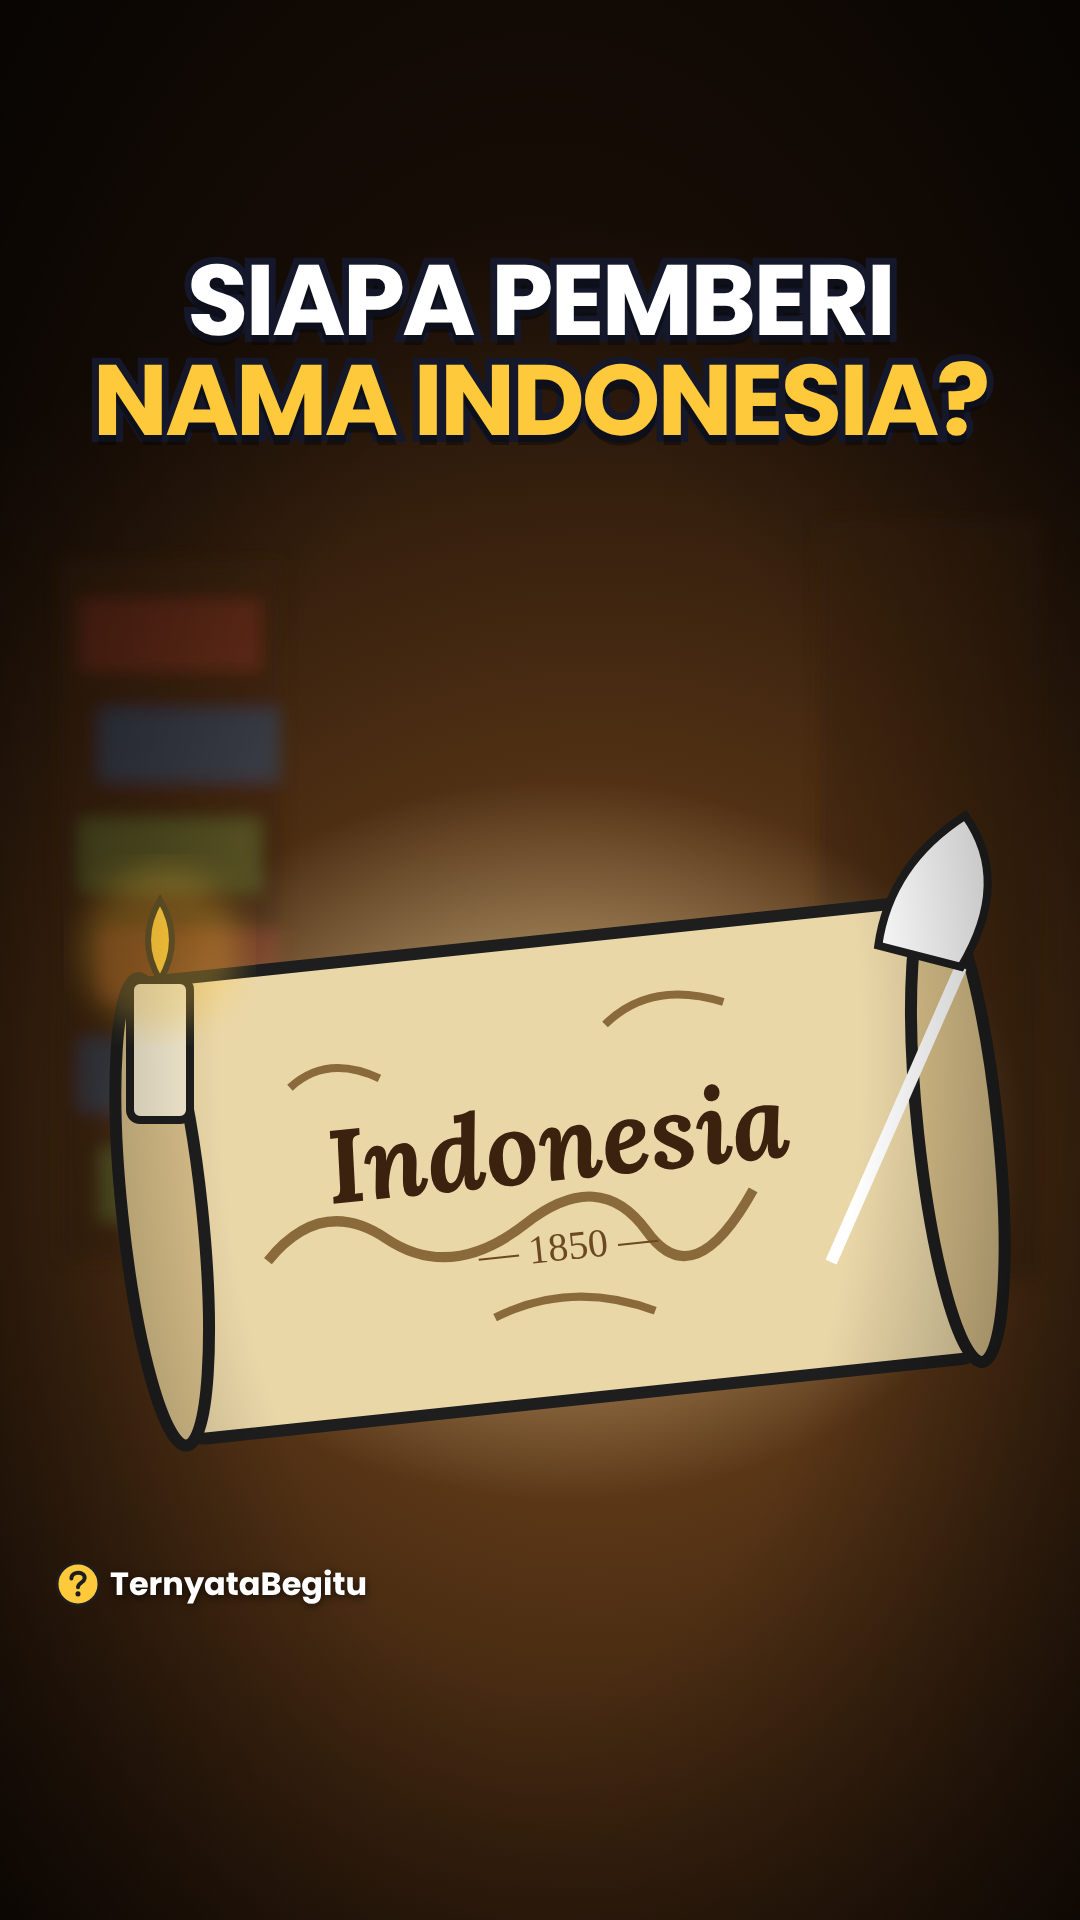
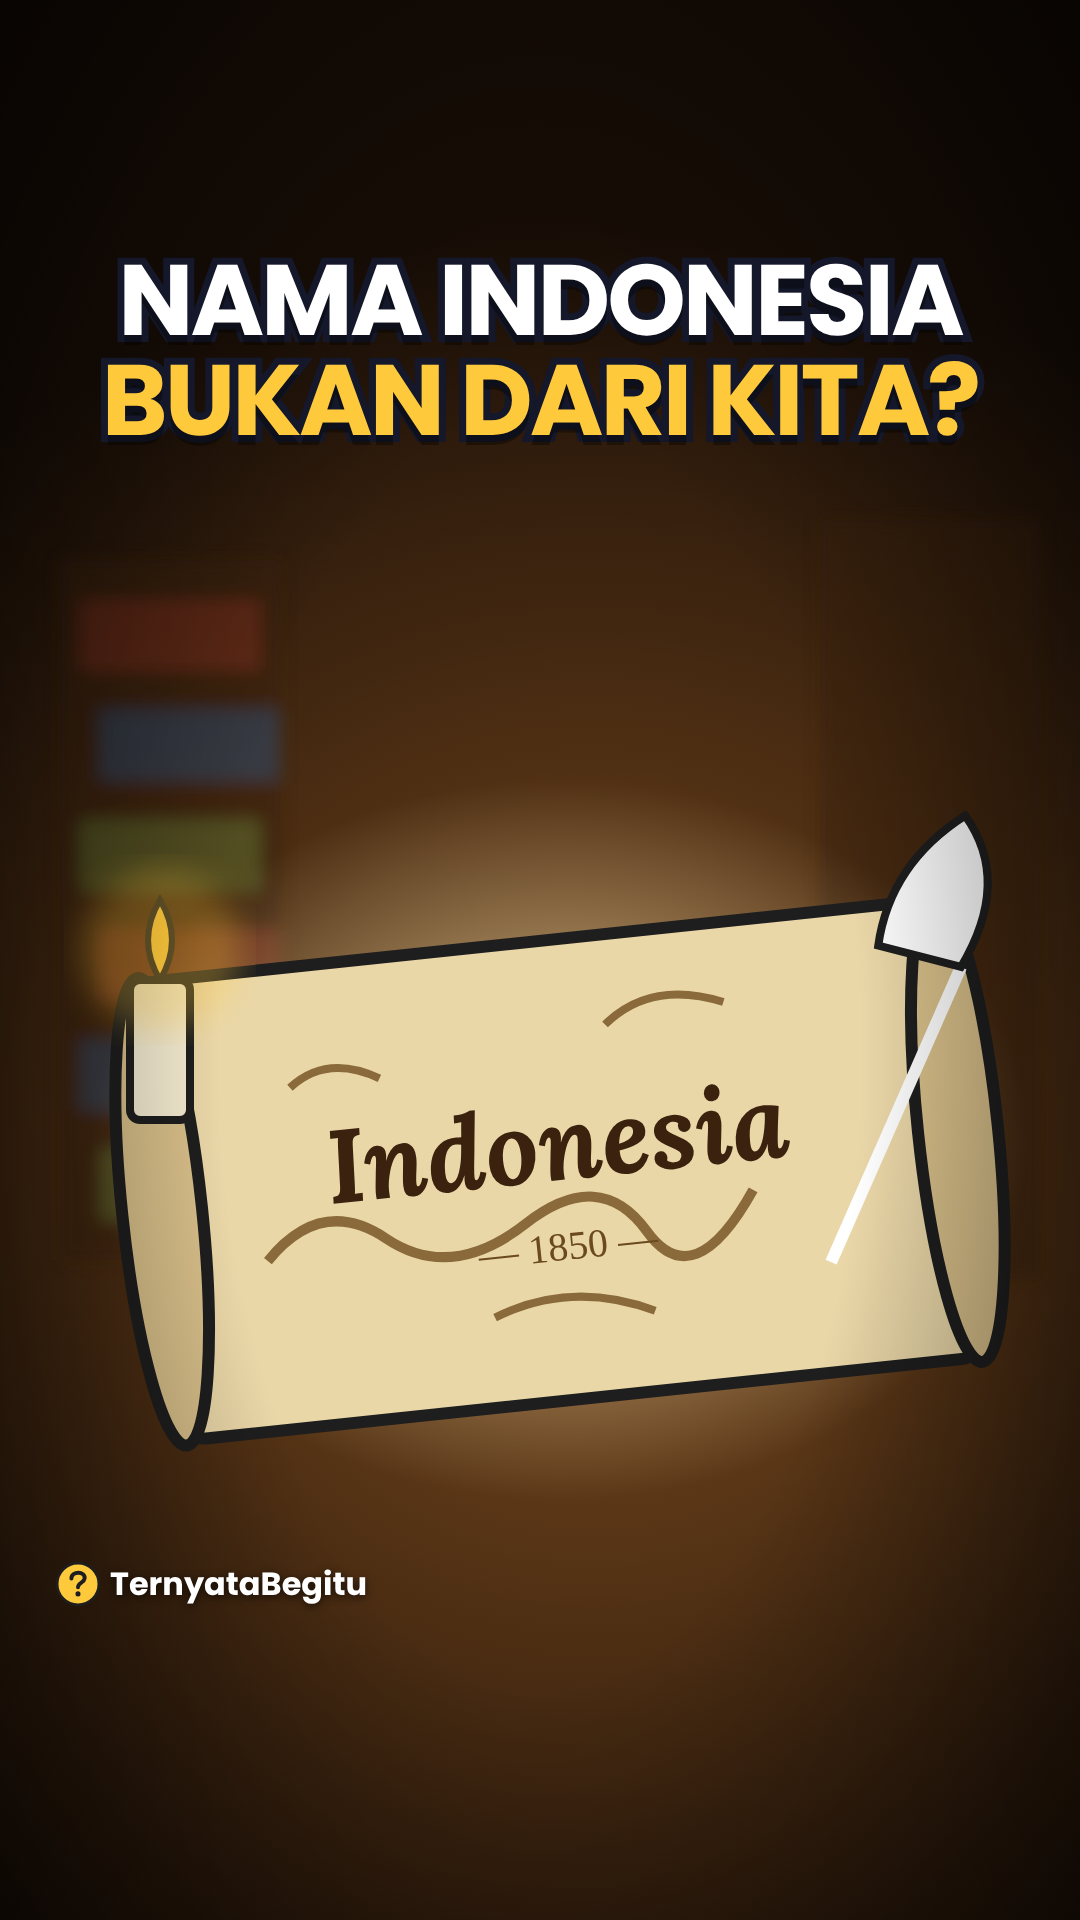
Keputusan Bos: hook & sampul pakai bahasa masyarakat; daftar bahasa populer dipelihara Raka
Claude-Session: https://claude.ai/code/session_01SafhMs4QScMNyVGtLqELgs

Changed region(s): [[0.0611, 0.125, 0.9167, 0.25]]

diff --git a/studio-aset/contoh-sampul/lima-konsep-v2.html b/studio-aset/contoh-sampul/lima-konsep-v2.html
@@ -26,7 +26,7 @@ micin:()=>`<div class="f"><div class="a" style="inset:0;background:linear-gradie
  <g transform="translate(560 760)" filter="url(#glow)" opacity=".8"><circle r="120" fill="#FF4D6D"/></g>
  <g transform="translate(860 1040) rotate(8)"><rect x="-150" y="-190" width="300" height="380" fill="#F4EBD0" stroke="#1E1E1E" stroke-width="10"/><path d="M-110 -120 h220 M-110 -80 h220 M-110 -40 h180 M-110 0 h220 M-110 40 h150" stroke="#9a8a6a" stroke-width="10"/><text x="0" y="140" font-family="Georgia" font-size="56" font-weight="700" text-anchor="middle" fill="#7a2e1e">1968</text><circle cx="100" cy="-150" r="34" fill="#E63946" opacity=".85"/></g><g transform="translate(560 760)"><path d="M-95 10 C-110 -70 -40 -110 0 -90 C40 -115 115 -70 95 10 C105 80 30 105 0 85 C-30 105 -105 80 -95 10Z" fill="#FFB3C1" stroke="#1E1E1E" stroke-width="10"/><path d="M0 -88 V85 M-60 -40 q30 20 0 50 M60 -40 q-30 20 0 50" stroke="#C9184A" stroke-width="8" fill="none"/><text x="120" y="-70" font-family="Poppins" font-weight="900" font-size="110" fill="#FFC93C" stroke="#1E1E1E" stroke-width="8" paint-order="stroke">?</text></g>`)}
  ${tebe({alisK:1,alisN:1,mataBesar:1,mulutBuka:.9,mulutLebar:.45,senyum:0,tanganK:[86,246],tanganN:[314,246],bentukK:'buka',bentukN:'buka',tekukK:-1,tekukN:1,efek:'kaget',kepalaMiring:6},600,'left:-60px;top:1060px;transform:scaleX(-1);')}
- ${vig(.65)}${judul('GENERASI MICIN','DARI 1 SURAT?','#FFC93C')}${merek}</div>`,
+ ${vig(.65)}${judul('MICIN BIKIN','BODOH?','#FFC93C')}${merek}</div>`,
 // 2 CLOSE-UP EKSTREM: durian
 durian:()=>`<div class="f"><div class="a" style="inset:0;background:radial-gradient(circle at 45% 60%,#2f6b3a,#0d2414 75%)"></div>
  ${svg(`<g filter="url(#glow)" opacity=".7"><path d="M120 1500 C300 1200 200 1000 480 900 S900 760 980 520" stroke="#B8FF5C" stroke-width="150" fill="none" stroke-linecap="round" opacity=".5"/></g>
@@ -37,7 +37,7 @@ durian:()=>`<div class="f"><div class="a" style="inset:0;background:radial-gradi
  </g>
  <g fill="#C6F36B" stroke="#1E1E1E" stroke-width="7"><path d="M600 740 c-30 -40 20 -80 50 -50 c20 -40 80 -20 70 20 c40 0 50 60 10 70 c10 40 -50 60 -70 30 c-30 30 -90 0 -60 -70z"/><path d="M800 560 c-20 -30 15 -60 40 -40 c15 -30 60 -15 55 15 c30 0 35 45 5 50 c5 30 -40 45 -55 20 c-25 20 -70 0 -45 -45z"/></g>`)}
  ${tebe({mataSenyum:0,alisK:-.6,alisN:-.6,alisMiringK:.6,alisMiringN:.6,mataBesar:0,senyum:-.8,mulutBuka:.3,mulutLebar:.5,tanganK:[160,210],bentukK:'buka',tekukK:-1,tanganN:[248,212],bentukN:'kepal',tekukN:1,kepalaMiring:-12,efek:'bingung',condong:6},230,'left:800px;top:1330px;')}
- ${vig(.6)}${judul('BAU DURIAN','ADA DI GENNYA?','#C6F36B')}${merek}</div>`,
+ ${vig(.6)}${judul('KENAPA DURIAN','BAU BANGET?','#C6F36B')}${merek}</div>`,
 // 3 BENDA TAK TERDUGA: harga 99.900
 harga:()=>`<div class="f"><div class="a" style="inset:0;background:linear-gradient(#123a7a,#1d63c9 55%,#0b2350)"></div>
  ${svg(`<g filter="url(#blur8)" opacity=".5">${[0,1,2,3].map(r=>`<rect x="0" y="${640+r*230}" width="1080" height="24" fill="#0b2350"/>`+[0,1,2,3,4,5].map(c=>`<rect x="${40+c*180}" y="${520+r*230}" width="120" height="120" rx="12" fill="${['#FFC93C','#FF6B6B','#7AE582','#fff'][(r+c)%4]}"/>`).join('')).join('')}</g>
@@ -47,7 +47,7 @@ harga:()=>`<div class="f"><div class="a" style="inset:0;background:linear-gradie
  <path d="M860 760 Q980 700 990 560" stroke="#fff" stroke-width="8" fill="none"/>
  <g transform="translate(600 1000) rotate(10)"><circle r="150" fill="#ffffff22" stroke="#1E1E1E" stroke-width="22"/><circle r="150" fill="none" stroke="#E8E8E8" stroke-width="10"/><path d="M100 110 L220 240" stroke="#5B4126" stroke-width="44" stroke-linecap="round"/><path d="M100 110 L220 240" stroke="#1E1E1E" stroke-width="56" stroke-linecap="round" opacity=".25"/></g>`)}
  ${tebe({alisK:-.2,alisN:.9,lihatX:-5,lihatY:-3,senyum:.4,mulutLebar:.45,kepalaMiring:-10,tanganN:[330,120],bentukN:'kepal',tekukN:1,tanganK:[120,330]},1250,'left:560px;top:760px;')}
- ${vig(.55)}${judul('TRIK HARGA','99.900','#FFC93C')}${merek}</div>`,
+ ${vig(.55)}${judul('KENAPA HARGANYA','SELALU 900?','#FFC93C').replace('<div class="judul">','<div class="judul" style="font-size:108px">')}${merek}</div>`,
 // 4 DUEL: ketchup vs kecap
 kecap:()=>`<div class="f"><div class="a" style="inset:0;background:#3a1a10"></div><div class="a" style="inset:0;background:#b3141f;clip-path:polygon(58% 0,100% 0,100% 100%,42% 100%)"></div>
  ${svg(`<path d="M600 520 L470 900 L600 900 L450 1320" stroke="#FFC93C" stroke-width="34" fill="none" stroke-linejoin="round" filter="url(#glow)"/><path d="M600 520 L470 900 L600 900 L450 1320" stroke="#FFF4C2" stroke-width="16" fill="none" stroke-linejoin="round"/>
@@ -68,7 +68,7 @@ nama:()=>`<div class="f"><div class="a" style="inset:0;background:radial-gradien
   <text x="0" y="10" font-family="Lora,Georgia,serif" font-style="italic" font-weight="700" font-size="104" text-anchor="middle" fill="#3a220f">Indonesia</text><text x="0" y="90" font-family="Georgia,serif" font-size="40" text-anchor="middle" fill="#6b4a22">— 1850 —</text>
   <path d="M260 120 L420 -160" stroke="#fff" stroke-width="12"/><path d="M420 -160 q60 -80 20 -150 q-80 40 -100 120 z" fill="#fff" stroke="#1E1E1E" stroke-width="8"/></g>
  <g transform="translate(160 980)"><rect x="-30" y="0" width="60" height="140" rx="10" fill="#F4EBD0" stroke="#1E1E1E" stroke-width="8"/><path d="M0 0 q-24 -40 0 -80 q24 40 0 80" fill="#FFC93C" stroke="#1E1E1E" stroke-width="6"/><circle cy="-30" r="80" fill="#FFC93C" opacity=".3" filter="url(#glow)"/></g>`)}
- ${vig(.7)}${judul('SIAPA PEMBERI','NAMA INDONESIA?','#FFC93C').replace('<div class="judul">','<div class="judul" style="font-size:100px">')}${merek}</div>`,
+ ${vig(.7)}${judul('NAMA INDONESIA','BUKAN DARI KITA?','#FFC93C').replace('<div class="judul">','<div class="judul" style="font-size:100px">')}${merek}</div>`,
 };
 window.tampil=k=>{document.getElementById('o').innerHTML=C[k]();};
 </script></body></html>

diff --git a/.claude/skills/naskah-viral/SKILL.md b/.claude/skills/naskah-viral/SKILL.md
@@ -7,6 +7,10 @@ Penonton memutuskan dalam 1–2 detik. Tugasmu: membuat mereka TIDAK BISA geser.
 
 ## Struktur Shorts (45–90 dtk, ±2,3 kata/dtk)
 1. **Hook 0–3 dtk — tugas nomor satu.** Penonton harus berhenti menggulir sebelum detik ke-3. Hook = kalimat + visual pembuka bekerja bersama.
+   - **Bahasa masyarakat dulu (keputusan Bos):** hook & judul sampul memakai kalimat yang SUDAH diucapkan/dicari orang Indonesia sehari-hari
+     — mitos, ejekan, pertanyaan warung, istilah viral ("micin bikin bodoh?", "generasi micin", "kenapa durian bau banget?").
+     Detail ahli yang belum dikenal orang (nama peneliti, "1 surat 1968", "4 salinan gen", tahun) TIDAK di hook/sampul — itu bahan kejutan di ISI video.
+     Uji: "Apakah teman tongkrongan saya pernah mengucapkan kalimat ini?" Kalau tidak, ganti. Cek daftar `panduan/bahasa-populer.md`.
    - Kalimat pertama ≤ 12 kata, kata kunci SEO terucap, langsung ke inti (tanpa "halo", "tahukah kamu", "di video ini").
    - Pakai salah satu pola dan putar terus (catat di `panduan/riwayat.md`, tidak sama dengan 5 video terakhir):
      **Kamu salah** ("Bau hujan yang kamu suka itu bukan bau air.") · **Mustahil tapi nyata** ("Komodo ini hamil tanpa pernah ketemu pejantan.") ·

diff --git a/antrean/2026-11-15_i-004-asal-nama-indonesia/arah_kreatif.md b/antrean/2026-11-15_i-004-asal-nama-indonesia/arah_kreatif.md
@@ -1,7 +1,8 @@
 # Arah kreatif dari Bos/manajer (15 Nov 2026) — titik awal, boleh diperkuat tim
-- Pola hook: Mustahil tapi nyata
-- Usulan hook: "Nama "Indonesia" pertama kali ditulis orang Inggris — 78 tahun sebelum Sumpah Pemuda."
-- Teks layar 0–3 dtk: DITULIS ORANG INGGRIS?
+> Revisi Bos: hook & sampul memakai bahasa yang sudah hidup di masyarakat (mis. "micin bikin bodoh?"), detail mengejutkan (surat 1968, gen, tahun 1850) disimpan untuk ISI video.
+- Pola hook: Kamu salah
+- Usulan hook: "Nama "Indonesia" ternyata bukan bikinan orang Indonesia. Terus siapa?"
+- Teks layar 0–3 dtk & judul sampul: NAMA INDONESIA BUKAN DARI KITA?
 - Visual 0–3 dtk: Pena bulu menulis "Indonesia" di jurnal tua, stempel 1850 menghantam halaman, kamera mundur cepat memperlihatkan peta Nusantara.
 - Sampul: Misteri — gulungan jurnal disorot cahaya lilin (acuan: acuan_sampul.png — buat versi final sendiri, judul sampul boleh disesuaikan dengan hook final)
 - Posisi Tebe di sampul: Tidak ada (benda kuno lebih kuat sendiri)

diff --git a/antrean/2026-11-15_i-009-bau-durian/arah_kreatif.md b/antrean/2026-11-15_i-009-bau-durian/arah_kreatif.md
@@ -1,7 +1,8 @@
 # Arah kreatif dari Bos/manajer (15 Nov 2026) — titik awal, boleh diperkuat tim
-- Pola hook: Angka mengejutkan
-- Usulan hook: "Durian punya empat salinan gen pembuat bau. Tumbuhan lain cuma satu atau dua."
-- Teks layar 0–3 dtk: 4X LIPAT GEN BAU
+> Revisi Bos: hook & sampul memakai bahasa yang sudah hidup di masyarakat (mis. "micin bikin bodoh?"), detail mengejutkan (surat 1968, gen, tahun 1850) disimpan untuk ISI video.
+- Pola hook: Pertanyaan yang semua orang pernah pikirkan
+- Usulan hook: "Kenapa sih durian baunya separah itu?"
+- Teks layar 0–3 dtk & judul sampul: KENAPA DURIAN BAU BANGET?
 - Visual 0–3 dtk: Kamera menyelam ke dalam durian, empat "cerobong pabrik" kecil menyemburkan asap bau hijau.
 - Sampul: Close-up raksasa — durian memenuhi layar (acuan: acuan_sampul.png — buat versi final sendiri, judul sampul boleh disesuaikan dengan hook final)
 - Posisi Tebe di sampul: Kecil di kejauhan (menunjukkan skala), menutup hidung

diff --git a/antrean/2026-11-15_i-015-harga-99900/arah_kreatif.md b/antrean/2026-11-15_i-015-harga-99900/arah_kreatif.md
@@ -1,7 +1,8 @@
 # Arah kreatif dari Bos/manajer (15 Nov 2026) — titik awal, boleh diperkuat tim
+> Revisi Bos: hook & sampul memakai bahasa yang sudah hidup di masyarakat (mis. "micin bikin bodoh?"), detail mengejutkan (surat 1968, gen, tahun 1850) disimpan untuk ISI video.
 - Pola hook: Pertanyaan pribadi
-- Usulan hook: "Kenapa 99.900 terasa jauh lebih murah dari seratus ribu? Padahal bedanya cuma seratus perak."
-- Teks layar 0–3 dtk: OTAKMU DITIPU?
+- Usulan hook: "Pernah sadar nggak, kenapa harga di minimarket hampir selalu berakhiran 900?"
+- Teks layar 0–3 dtk & judul sampul: KENAPA HARGANYA SELALU 900?
 - Visual 0–3 dtk: Mata Tebe membaca label dari kiri, angka di kanan memudar dan mengecil.
 - Sampul: Benda tak terduga — label harga raksasa, "900" diperbesar kaca pembesar (acuan: acuan_sampul.png — buat versi final sendiri, judul sampul boleh disesuaikan dengan hook final)
 - Posisi Tebe di sampul: Separuh wajah raksasa mengintip dari kanan

diff --git a/antrean/2026-11-15_i-008-mitos-micin-bikin-bodoh/arah_kreatif.md b/antrean/2026-11-15_i-008-mitos-micin-bikin-bodoh/arah_kreatif.md
@@ -1,7 +1,8 @@
 # Arah kreatif dari Bos/manajer (15 Nov 2026) — titik awal, boleh diperkuat tim
-- Pola hook: Kamu salah
-- Usulan hook: "Ejekan "generasi micin" itu berawal dari satu surat dokter yang cuma menebak-nebak."
-- Teks layar 0–3 dtk: CUMA 1 SURAT?
+> Revisi Bos: hook & sampul memakai bahasa yang sudah hidup di masyarakat (mis. "micin bikin bodoh?"), detail mengejutkan (surat 1968, gen, tahun 1850) disimpan untuk ISI video.
+- Pola hook: Mitos yang semua orang percaya
+- Usulan hook: "Katanya micin bikin bodoh. Kamu percaya juga?"
+- Teks layar 0–3 dtk & judul sampul: MICIN BIKIN BODOH?
 - Visual 0–3 dtk: Surat bercap 1968 melayang jatuh ke mangkok bakso, butiran micin bertaburan slow-motion.
 - Sampul: Sebab–akibat — micin ditabur, surat 1968, otak bertanda tanya (acuan: acuan_sampul.png — buat versi final sendiri, judul sampul boleh disesuaikan dengan hook final)
 - Posisi Tebe di sampul: Kiri bawah, menghadap ke kanan, kaget

diff --git a/antrean/2026-11-15_i-018-ketchup-dari-kecap/arah_kreatif.md b/antrean/2026-11-15_i-018-ketchup-dari-kecap/arah_kreatif.md
@@ -1,7 +1,8 @@
 # Arah kreatif dari Bos/manajer (15 Nov 2026) — titik awal, boleh diperkuat tim
+> Revisi Bos: hook & sampul memakai bahasa yang sudah hidup di masyarakat (mis. "micin bikin bodoh?"), detail mengejutkan (surat 1968, gen, tahun 1850) disimpan untuk ISI video.
 - Pola hook: Kamu salah (dibalik)
-- Usulan hook: "Saus tomat di bakso kamu itu ternyata "cucu" kecap. Dan aslinya… dari ikan."
-- Teks layar 0–3 dtk: ASLINYA DARI IKAN?!
+- Usulan hook: "Saus tomat sama kecap ternyata saudaraan. Dan aslinya… dari ikan."
+- Teks layar 0–3 dtk & judul sampul: KETCHUP ITU DARI KECAP?!
 - Visual 0–3 dtk: Botol saus tomat berputar lalu berubah menjadi tong saus ikan di kapal dagang.
 - Sampul: Duel — kecap vs ketchup dengan petir di tengah (acuan: acuan_sampul.png — buat versi final sendiri, judul sampul boleh disesuaikan dengan hook final)
 - Posisi Tebe di sampul: Siluet di tengah bawah, menonton duel

diff --git a/.claude/skills/seo-distribusi/SKILL.md b/.claude/skills/seo-distribusi/SKILL.md
@@ -6,6 +6,11 @@ description: Cara Raka memilih ide, menyusun SEO, mengecek naskah, dan menyiapka
 ## Pilih ide (skor ≥15/20 lanjut)
 Penasaran 0–5 · relevan untuk 17–35 th Indonesia 0–5 · layak dibagikan 0–5 · momentum/tren/musim 0–5.
 
+## Bahasa populer (tugas tetap Raka)
+Pelihara `panduan/bahasa-populer.md`: frasa, mitos, ejekan, dan pertanyaan yang sedang dipakai orang Indonesia (kolom komentar TikTok/IG/YouTube,
+saran pencarian "kenapa…/apakah…", tren). Perbarui tiap Senin (+5–10 frasa) dan pasangkan dengan topik di bank ide.
+Saat memilih ide & cek SEO: pastikan hook/judul sampul memakai frasa dari daftar ini, bukan istilah ahli.
+
 ## seo.md (maks 15 baris)
 Kata kunci utama (cara orang Indonesia mengetik di pencarian) + 3 turunan · celah dari video pesaing · 3 sudut judul · alasan orang membagikan.
 

diff --git a/panduan/bahasa-populer.md b/panduan/bahasa-populer.md
@@ -1,0 +1,10 @@
+# Bahasa populer — dipelihara Raka, diperbarui tiap Senin
+Frasa yang sudah hidup di masyarakat Indonesia. Pakai untuk hook & judul sampul (bukan istilah ahli).
+| Frasa / mitos / pertanyaan | Topik yang cocok | Catatan |
+|---|---|---|
+| "micin bikin bodoh", "generasi micin" | asal-usul mitos MSG | ejekan sehari-hari anak muda |
+| "kenapa durian bau banget?" | genetika bau durian | pertanyaan umum, musim durian |
+| "kenapa harga selalu 900/999?" | psikologi harga | dilihat tiap hari di minimarket |
+| "saus tomat vs kecap" | asal kata ketchup | perdebatan warung bakso |
+| "bau tanah habis hujan", "bau hujan" | petrikor/geosmin | sangat dicari, sudah tayang |
+| "nama Indonesia dari mana?" | sejarah nama Indonesia | menjelang 17 Agustus & 28 Oktober paling kuat |

diff --git a/.claude/skills/produksi-video/referensi/sampul.md b/.claude/skills/produksi-video/referensi/sampul.md
@@ -12,6 +12,9 @@ Rotasi konsep di bawah, dipilih yang paling cocok dengan ISI konten. Yang paling
 5. **Benda tak terduga** — benda sehari-hari Indonesia di tempat yang aneh.
 6. **Wajah reaksi + misteri** — Tebe besar bereaksi pada sesuatu yang separuh tersembunyi (di balik tirai, bayangan).
 
+## Teks sampul
+Pakai bahasa masyarakat yang sudah relate (sama dengan hook): "MICIN BIKIN BODOH?" lebih kuat daripada "GENERASI MICIN DARI 1 SURAT?". Fakta ahli disimpan untuk isi video.
+
 ## Tata letak
 - Teks: atas, y 250–520, maks 2 baris; kontur 14 px gelap; 1 kata berwarna aksen.
 - Subjek utama: tengah, mengisi 40–60% bingkai, boleh terpotong tepi (terasa dekat).
